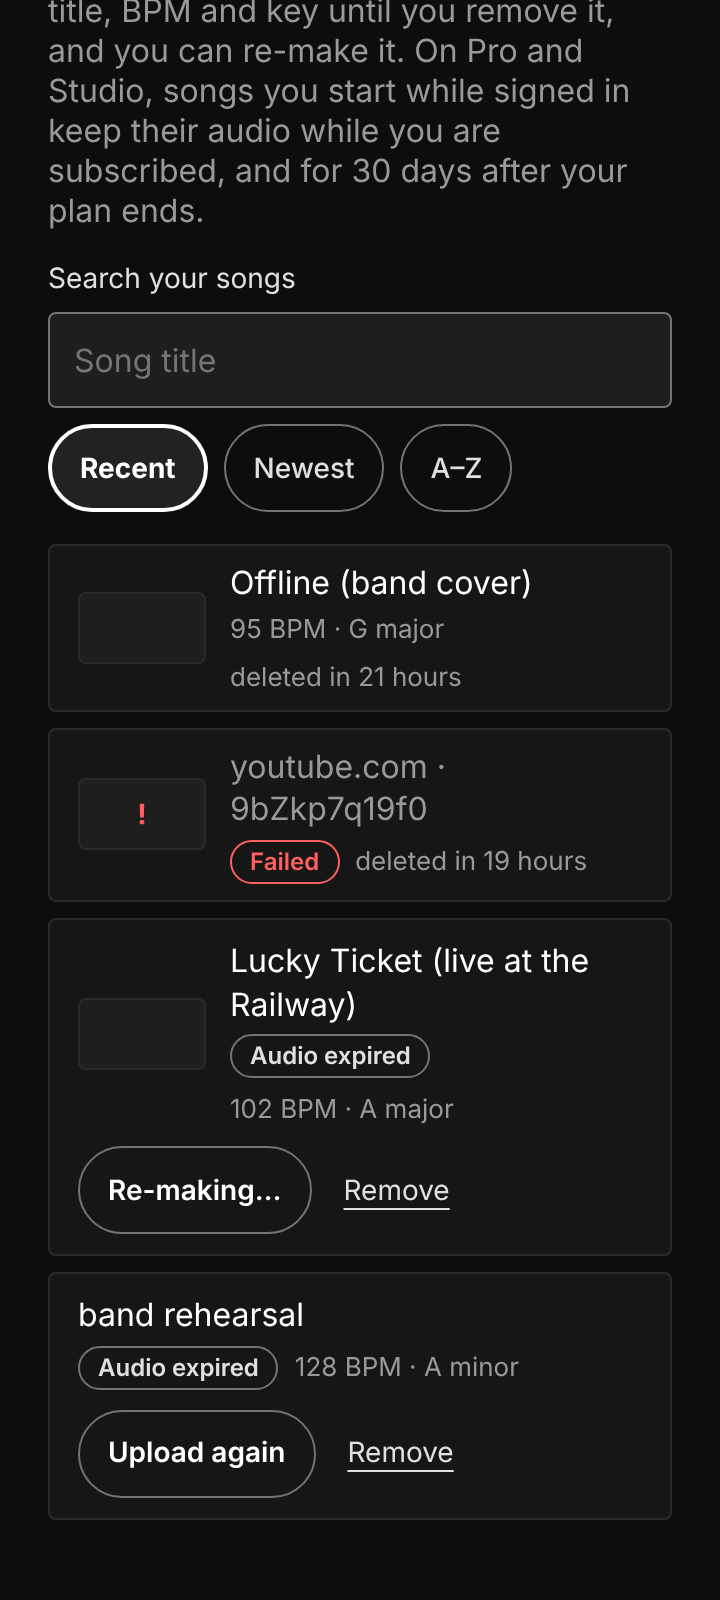
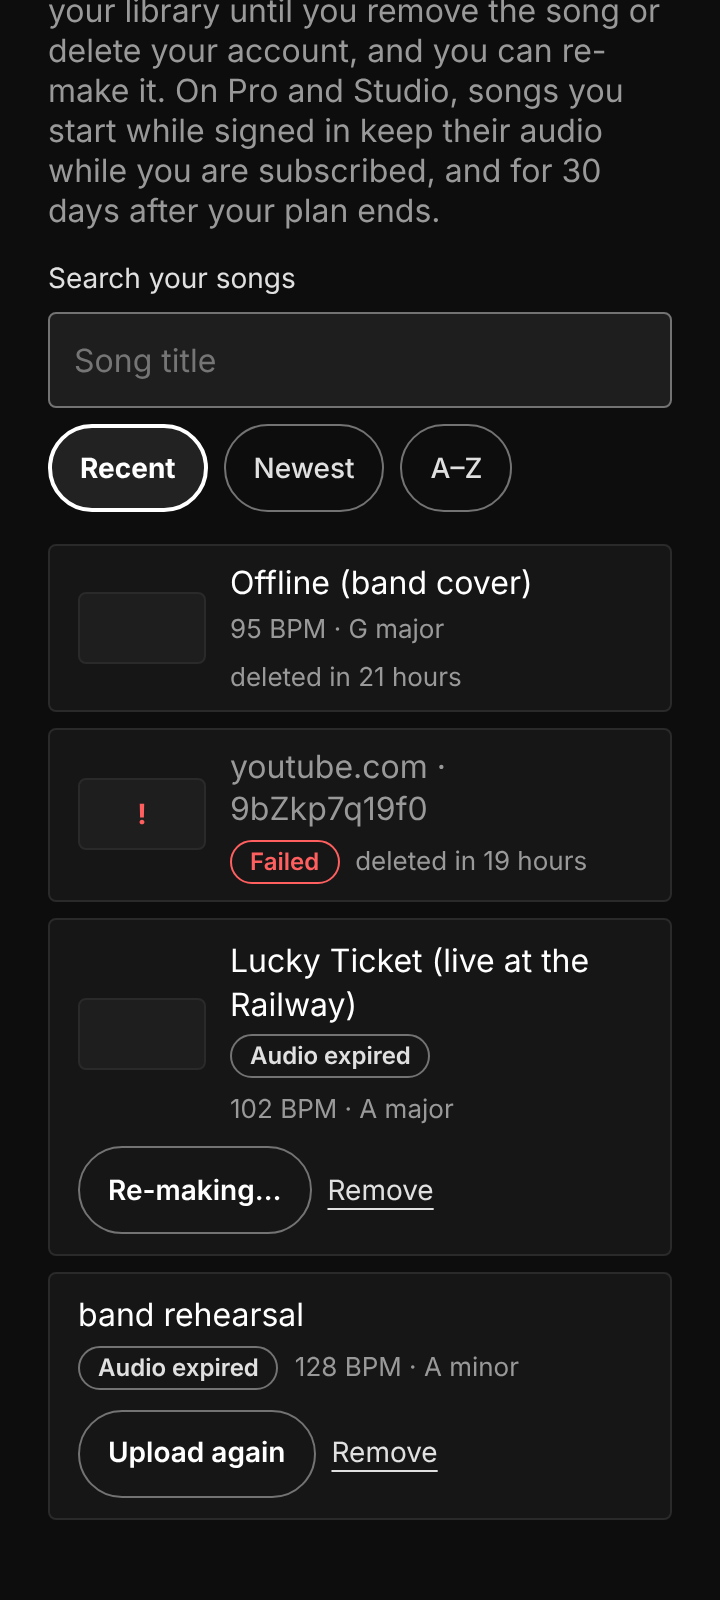
fix(library): R1 should-fixes — PB-1 copy, pricing bullet, first-added disclosure, test hygiene
S1 pricing Free bullet no longer overclaims; S2 library note names the chord file
and account deletion, privacy discloses the first-added time; S3 drop the vacuous
UNRESOLVED check; S4 /loops footer states the PB-1 truth; S5 Remove fits beside
Re-make at 390. Screenshots re-shot.

Claude-Session: https://claude.ai/code/session_01JqS8BYLQ3QzhUA3VPQtpyR

Changed region(s): [[0.0611, 0.0, 0.9167, 0.1562], [0.4583, 0.9062, 0.6417, 0.9375], [0.4583, 0.7188, 0.6111, 0.75]]

diff --git a/apps/web/src/app/(landing)/privacy/page.tsx b/apps/web/src/app/(landing)/privacy/page.tsx
@@ -94,7 +94,7 @@ export default function PrivacyPage() {
                 trigger on the account's deletion). */}
             <p data-testid="privacy-library-retention">
               Your song library outlives that. For a song you started while signed in, we keep its link (or file name),
-              title, video id, BPM and key after its audio is deleted, so it stays in your library marked “Audio expired”
+              title, video id, BPM and key, and when you first added it, after its audio is deleted, so it stays in your library marked “Audio expired”
               and you can make it again. Nothing made from the audio is kept. That record stays until you remove the song
               from your library or delete your account. Set lists you make (their names and the songs in them) are kept
               until you delete them or your account.

diff --git a/apps/web/src/app/loops/LoopsView.tsx b/apps/web/src/app/loops/LoopsView.tsx
@@ -459,8 +459,9 @@ export default function LoopsView({
 
       <footer className="lp-foot">
         <p className="lp-muted">
-          On Free, songs, stems and loops are deleted 24 hours after a song is split, so download what you want to
-          keep. On Pro and Studio they stay in your library while you are subscribed, and for 30 days after.
+          On Free, a song’s audio, stems and loops are deleted 24 hours after it is split, so download what you want
+          to keep; its title, BPM and key stay in your song library. On Pro and Studio the audio stays while you are
+          subscribed, and for 30 days after.
           Splitting a song does not change who owns it; see the{' '}
           <a href="/terms" className="lp-link">
             terms

diff --git a/apps/web/src/components/library/LibraryList.tsx b/apps/web/src/components/library/LibraryList.tsx
@@ -90,7 +90,7 @@ const secondary: React.CSSProperties = {
 const textBtn: React.CSSProperties = {
   minHeight: 44,
   minWidth: 44,
-  padding: '0 8px',
+  padding: '0 4px',
   background: 'none',
   border: 'none',
   color: 'var(--text-secondary)',
@@ -329,7 +329,7 @@ function ExpiredRow({
             </span>
           </span>
         </div>
-        <div style={{ display: 'flex', alignItems: 'center', gap: 8, flexWrap: 'wrap' }}>
+        <div style={{ display: 'flex', alignItems: 'center', gap: 4, flexWrap: 'wrap' }}>
           {s.isUpload ? (
             <a href="/" style={secondary} data-testid="library-upload-again">
               {UPLOAD_AGAIN_LABEL}

diff --git a/apps/web/src/lib/pricing-copy.ts b/apps/web/src/lib/pricing-copy.ts
@@ -38,7 +38,7 @@ export type PlanCopyInput = {
  *  (jobs.expires_at, migration 007); Pro and Studio is JOB_RETAINED_UNTIL_SQL in
  *  lib/retention.ts and RETAINED_UNTIL_SQL in the worker's cleanup.py. */
 export const RETENTION_BULLET: Readonly<Record<string, string>> = {
-  free: 'Audio deleted after 24 hours; songs stay in your library',
+  free: 'Audio deleted after 24 hours; title, BPM and key stay in your library',
   pro: 'Song library: kept while you subscribe, plus 30 days',
   studio: 'Song library: kept while you subscribe, plus 30 days',
 };
